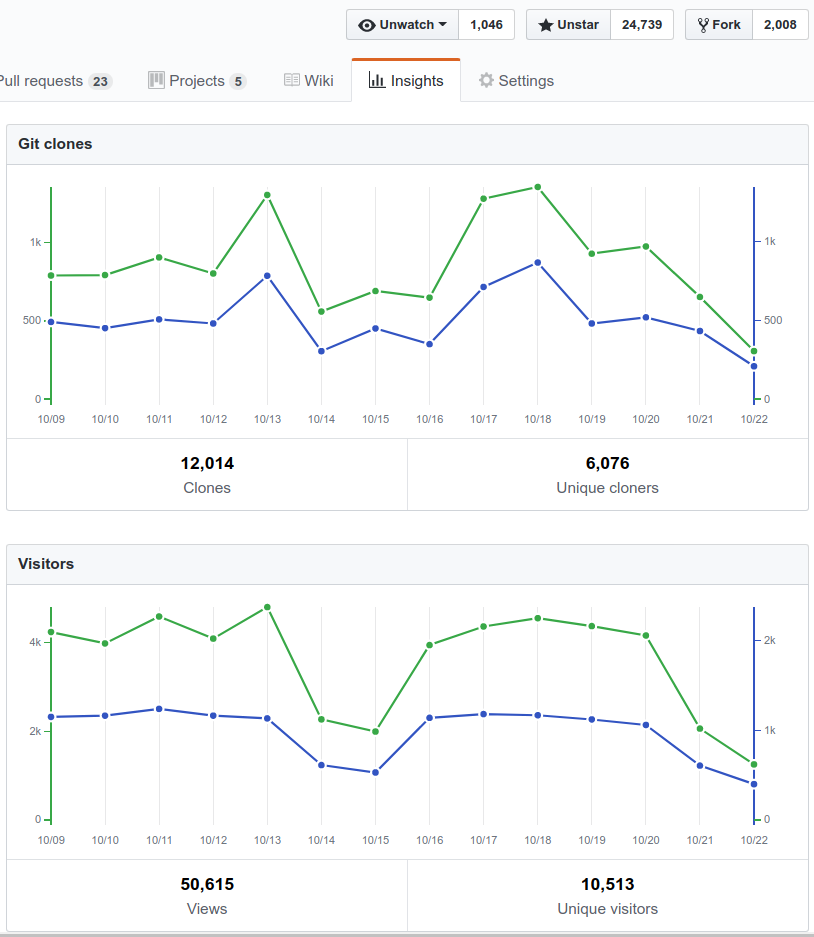
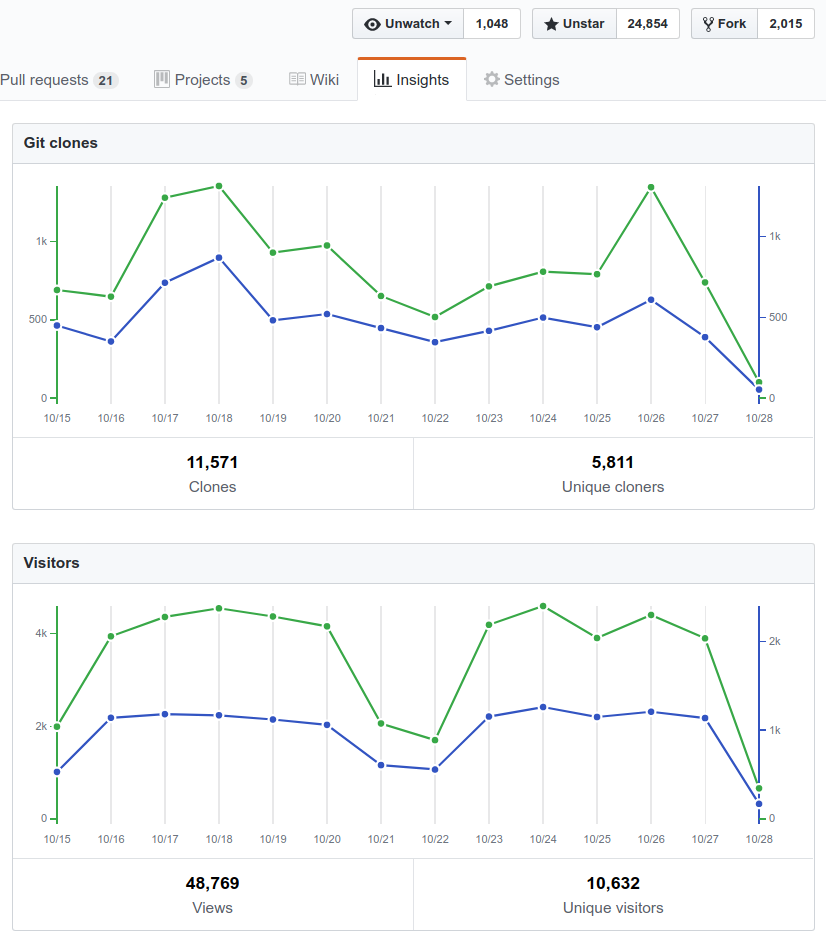
updated

diff --git a/fosscom2017.html b/fosscom2017.html
@@ -129,12 +129,12 @@
 							<tr>
 								<td>co-Founder</td>
 								<td>ComNet</td>
-								<td>1997 - 1999</td>
+								<td>1996 - 1999</td>
 							</tr>
 							<tr>
-								<td>co-Founder</td>
-								<td>AcropolisNet</td>
-								<td>1995 - 1996</td>
+								<td>dev, sysadm</td>
+								<td><i>not-internet related</i></td>
+								<td>1989 - 1996</td>
 							</tr>
 						</tbody>
 					</table>
@@ -281,7 +281,7 @@ interface eth2 world bidirectional rate 100Mbit
 
 									<li><code style="color: orange;">iprange</code> is a high performance ipsets processor (it applies sets theory operations to IPSETs). It is really very fast!<br/>&nbsp;</li>
 
-									<li>The site... well it a <span style="color: lightgreen;">monitoring console</span>. <code style="color: orange;">update-ipsets</code> generates static JSON files every few minutes. These files are uploaded to the site and are rendered on charts, maps and tables.</li>
+									<li>The site... well it is a <span style="color: lightgreen;">monitoring console</span>. <code style="color: orange;">update-ipsets</code> generates static JSON files every few minutes. These files are uploaded to the site and are rendered on charts, maps and tables.</li>
 								</ul>
 							</small>
 						</p>
@@ -298,14 +298,43 @@ interface eth2 world bidirectional rate 100Mbit
 				</section>
 
 				<section>
+					<h2>the beginning...</h2>
+					<q>&ldquo;hm... it seems there is nothing to<br/>visualize <span style="color: orange;">QoS</span> classes in real-time&rdquo;</q>
+				</section>
+
+				<section>
+					<h2>the <span style="color: lightgreen;">unofficial</span> early roadmap</h2>
+					<ul>
+						<li><code>tc ... | awk ... >/run/qos.json</code></li>
+						<li>let's make it binary <code>>/run/qos.json</code></li>
+						<li>hm... I better turn this to a <span style="color: lightgreen;">daemon</span>...</li>
+						<li>nice! let's make it a <span style="color: lightgreen;">web server</span>...</li>
+						<li><b>hey... this is really <span style="color: lightgreen;">fast</span> with <span style="color: lightgreen;">low overhead</span>...</b></li>
+						<li>I think it can expose more <span style="color: lightgreen;">system info</span>...</li>
+						<li>cool! let it <span style="color: lightgreen;">run commands</span> too, to collect data...</li>
+						<li>hm... <span style="color: orange;">google charts are slow</span>...</li>
+						<li>I see there are more <span style="color: lightgreen;">chart libraries</span>...</li>
+						<li><b>wow! let's build <span style="color: lightgreen;">the fastest UI</span>...</b></li>
+				</section>
+
+				<section>
+					<h2>Wed, March 30th, 2016</h2>
+					<p>a morning coffee, some news reading,<br/>a few screenshots, and a post.</p>
+				</section>
+
+				<section>
+					<q>&ldquo;Costa, you are at the<br/><span style="color: orange;">hacker</span>news home page!&rdquo;</q>
+				</section>
+
+				<section>
 					<h2>netdata facts</h2>
 					<p>
 						<small>Released March 30th, 2016 (1,5 year ago).</small>
 						<ul>
 							<li><span style="color: lightgreen;">25.000</span> github stars</li>
-							<li><span style="color: lightgreen;">410.000</span> unique users<small>*</small></li>
-							<li><span style="color: lightgreen;">190.000</span> unique installations<small>*</small></li>
-							<li><span style="color: lightgreen;">8.500.000</span> unique sessions served<small>*</small></li>
+							<li><span style="color: lightgreen;">195.000</span> unique installations<small>*</small></li>
+							<li><span style="color: lightgreen;">420.000</span> unique dashboard users<small>*</small></li>
+							<li><span style="color: lightgreen;">9.000.000</span> unique sessions served<small>*</small></li>
 							<li><span style="color: lightgreen;">3.000.000</span> docker pulls</li>
 						</ul>
 							<br/>&nbsp;<br/>
@@ -320,7 +349,28 @@ interface eth2 world bidirectional rate 100Mbit
 				</section>
 
 				<section>
-					<img src="images/github-stats.png" width="60%"/>
+					<h2>netdata on github</h2>
+					<div style="width: 100%; height: 100%">
+						<div style="text-align: left; float: left; width: 40%">
+							<p>
+								Every day:
+								<ul>
+									<li>500+ cloners</li>
+									<li>1200+ visitors</li>
+								</ul>
+							</p>
+							<p>
+								Every 15 days:
+								<ul>
+									<li>5000+ cloners</li>
+									<li>10000+ visitors</li>
+								</ul>
+							</p>
+						</div>
+						<div style="text-align: right; float: right; width: 60%; height: 100%; overflow: hidden;">
+							<img src="images/github-stats.png" width="60%"/>
+						</div>
+					</div>
 				</section>
 
 				<section>
@@ -402,7 +452,7 @@ interface eth2 world bidirectional rate 100Mbit
 						<h2>So, why people <span style="color: lightgreen;">fall in love</span><br/>with netdata?</h2>
 					</section>
 					<section data-background-video="images/Peek 2017-10-22 15-30.webm" data-background-video-loop data-background-video-muted data-background-transition="convex">
-						<h2>netdata dashboards are <span style="color: lightgreen;">impressive</span></h2>
+						<h2>netdata dashboards are <span style="color: lightgreen;">awesome</span></h2>
 						<ul>
 							<li>unbelievably <b>fast</b></li>
 							<li>highly <b>interactive</b></li>
